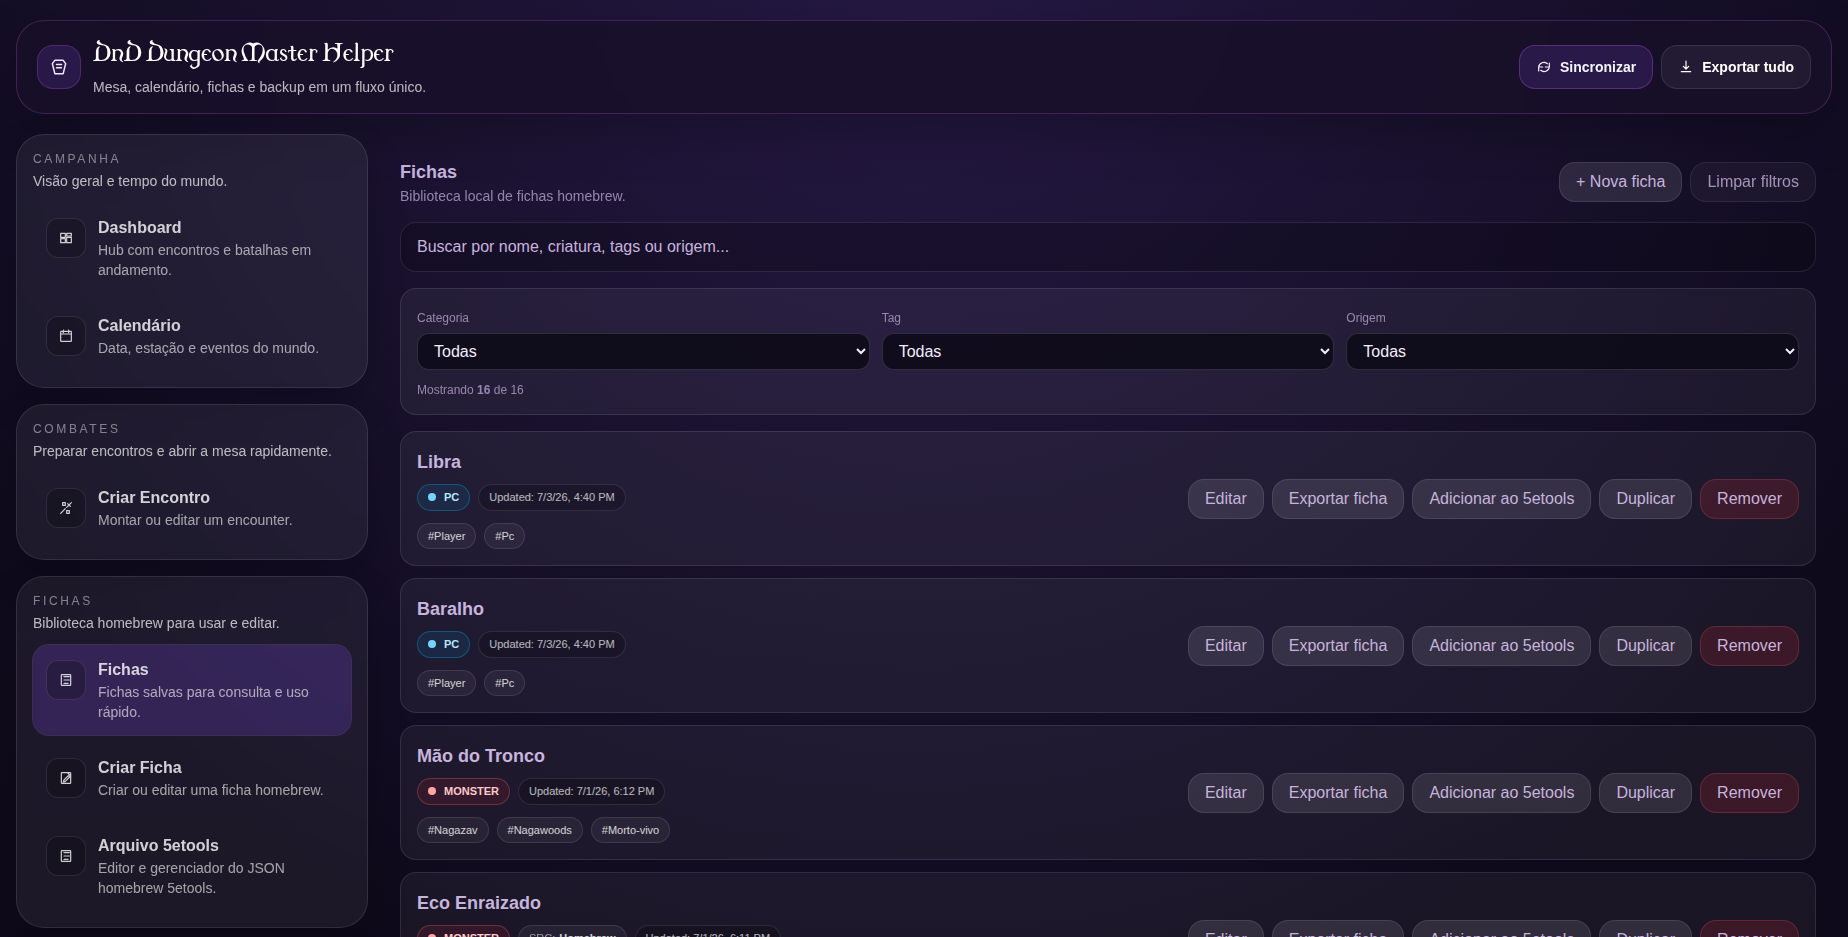
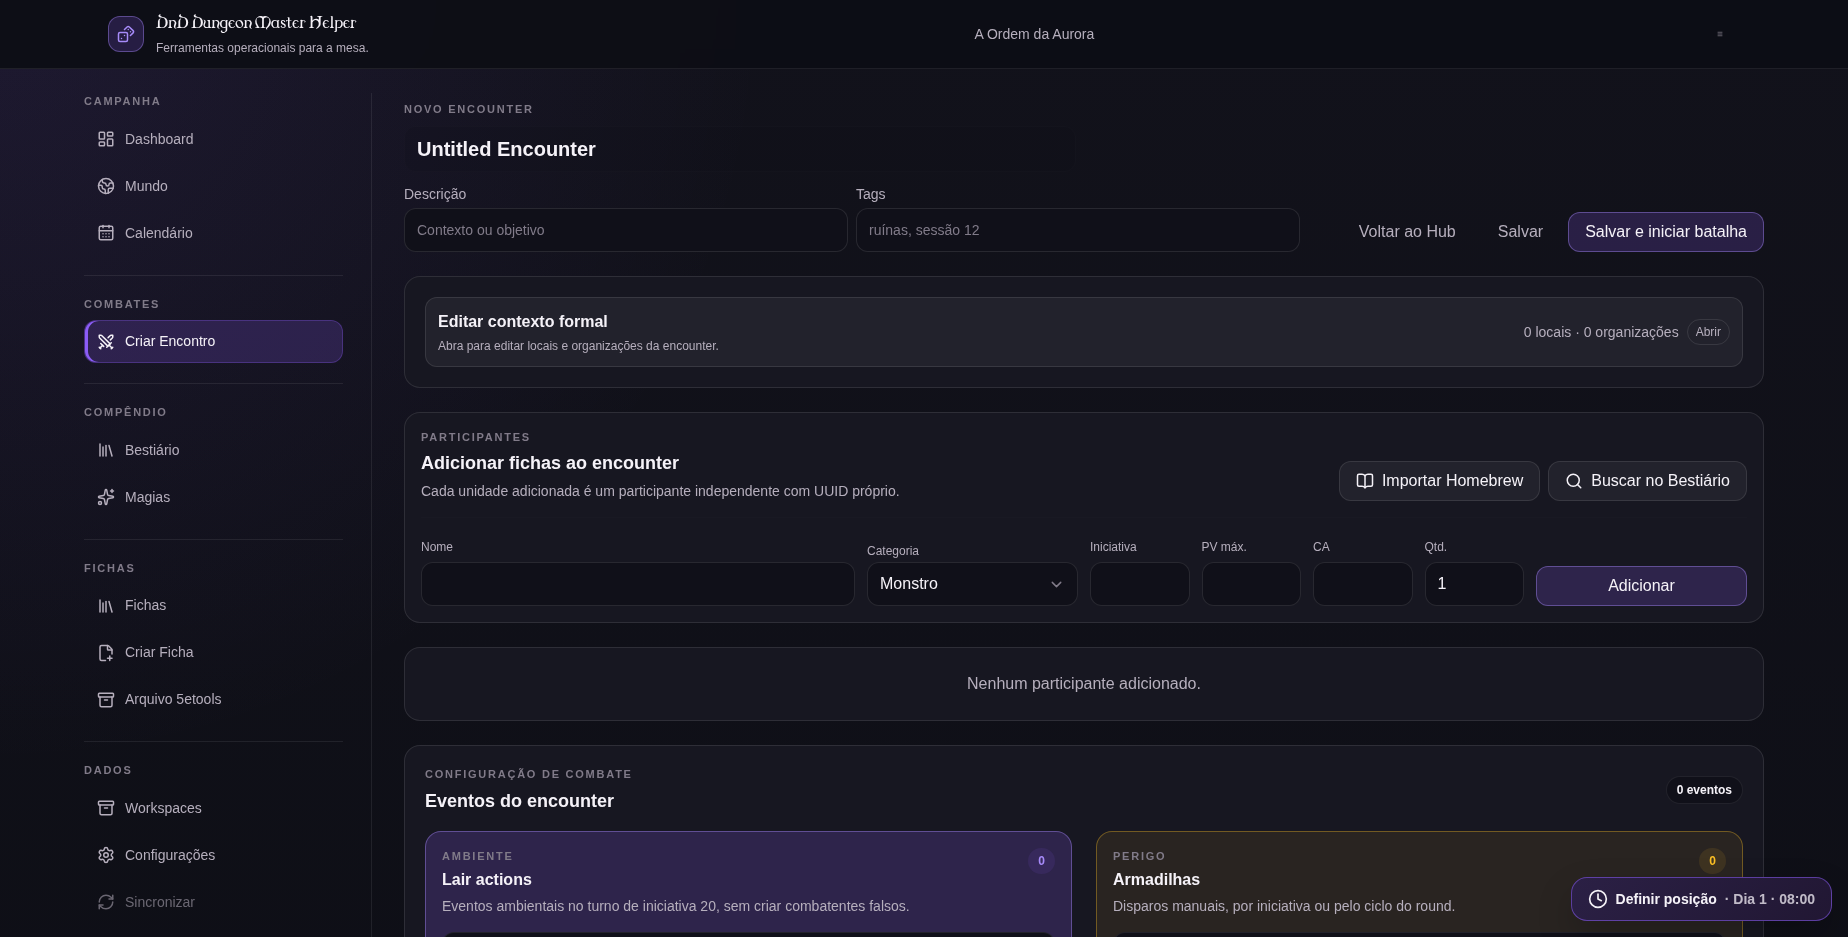
feat: add the new project

diff --git a/src/app/home/projects/projects-info.ts b/src/app/home/projects/projects-info.ts
@@ -4,11 +4,40 @@ interface Project {
 	bio: string;
 	tech: string;
 	imgSrc: string;
+	featured?: boolean;
 	repoLink?: string;
 	deployLink: string;
 }
 
 export const projects: Project[] = [
+	{
+		id: 6,
+		name: 'D&D Dungeon Master Helper',
+		bio: `Ferramenta para mestres de D&D com foco em uso local durante as sessões.
+
+- Encontros salvos e editáveis, Encounter Hub e Battle Tracker.
+- Fichas homebrew e calendário com world clock.
+- Backup completo em JSON e sincronização dos dados do projeto.
+- Persistência local com localStorage para manter o fluxo da mesa organizado.`,
+		deployLink: 'https://dnd-dm-helper.vercel.app',
+		imgSrc: '/images/projects/dnd-dm-helper.png',
+		featured: true,
+		tech: 'https://skillicons.dev/icons?i=angular,ts,tailwind',
+	},
+	{
+		id: 7,
+		name: 'D&D Player Helper',
+		bio: `Cockpit mobile-first e offline-first para jogadores de D&D 5e 2014.
+
+- Criação, progressão e gerenciamento de múltiplas fichas.
+- Jogar, Ficha, Habilidades, Magias e Inventário em uma experiência integrada.
+- Character Engine com suporte a multiclasse, recursos, descansos e histórico.
+- PWA instalável, compêndio local e persistência offline com IndexedDB.`,
+		deployLink: 'https://dnd-player-helper.vercel.app',
+		imgSrc: '/images/projects/dnd-player-helper.png',
+		featured: true,
+		tech: 'https://skillicons.dev/icons?i=angular,ts,tailwind,pwa',
+	},
 	{
 		id: 1,
 		name: 'Brasil API',
@@ -21,20 +50,6 @@ export const projects: Project[] = [
 		imgSrc: '/images/projects/brasil-API.png',
 		repoLink: 'https://github.com/Joao-Vtr-Oliveira/Brasil-API-Angular',
 		tech: 'https://skillicons.dev/icons?i=ts,angular,tailwind,jest',
-	},
-	{
-		id: 6,
-		name: 'D&D Dungeon Master Helper',
-		bio: `Ferramenta para mestres de D&D com foco em uso local durante as sessões.
-
-- Encontros salvos e editáveis, Encounter Hub e Battle Tracker.
-- Fichas homebrew e calendário com world clock.
-- Backup completo em JSON e sincronização dos dados do projeto.
-- Persistência local com localStorage para manter o fluxo da mesa organizado.`,
-		deployLink: 'https://dnd-dm-helper.vercel.app',
-		imgSrc: '/images/projects/dnd-dm-helper.png',
-		repoLink: 'https://github.com/Joao-Vtr-Oliveira/dnd-dm-helper',
-		tech: 'https://skillicons.dev/icons?i=angular,ts,tailwind',
 	},
 	{
 		id: 2,

diff --git a/src/app/home/projects/projects.css b/src/app/home/projects/projects.css
@@ -1,8 +1,98 @@
-.example-card {
-  max-width: 400px;
+.projects-intro {
+  max-width: 44rem;
+  margin: -1.5rem auto 2.5rem;
+  color: rgb(196 181 253 / 0.82);
+  text-align: center;
+  line-height: 1.6;
 }
 
 .customBtn {
-  
   height: 40px;
+}
+
+.project-card {
+  position: relative;
+  overflow: hidden;
+  border-color: rgb(139 92 246 / 0.2);
+  transition: border-color 180ms ease, box-shadow 180ms ease, transform 180ms ease;
+}
+
+.project-card:hover {
+  border-color: rgb(139 92 246 / 0.55);
+}
+
+.project-card-featured {
+  border: 1px solid rgb(167 139 250 / 0.72) !important;
+  background:
+    linear-gradient(145deg, rgb(76 29 149 / 0.18), transparent 48%),
+    rgb(31 25 48 / 0.98);
+  color: #f5f3ff;
+  box-shadow: 0 0 0 1px rgb(139 92 246 / 0.12), 0 22px 55px rgb(76 29 149 / 0.22);
+}
+
+:host-context(.dark) .project-card-featured {
+  background:
+    linear-gradient(145deg, rgb(76 29 149 / 0.32), transparent 48%),
+    rgb(31 25 48 / 0.98);
+}
+
+.project-card-featured mat-card-title {
+  color: #f5f3ff;
+}
+
+.project-card-featured mat-card-content pre {
+  color: #e5e7eb;
+}
+
+.project-card-featured:hover {
+  border-color: rgb(196 181 253 / 0.95) !important;
+  box-shadow: 0 0 0 1px rgb(167 139 250 / 0.2), 0 24px 65px rgb(109 40 217 / 0.32);
+}
+
+.project-card-image {
+  transition: transform 240ms ease, filter 240ms ease;
+}
+
+.project-card:hover .project-card-image {
+  transform: scale(1.025);
+  filter: saturate(1.08);
+}
+
+.featured-badge {
+  position: absolute;
+  z-index: 1;
+  top: 1rem;
+  left: 1rem;
+  display: inline-flex;
+  align-items: center;
+  gap: 0.35rem;
+  padding: 0.4rem 0.75rem;
+  border: 1px solid rgb(221 214 254 / 0.55);
+  border-radius: 999px;
+  background: rgb(46 16 101 / 0.88);
+  color: #ede9fe;
+  font-size: 0.75rem;
+  font-weight: 700;
+  letter-spacing: 0.02em;
+  box-shadow: 0 8px 20px rgb(46 16 101 / 0.28);
+  backdrop-filter: blur(8px);
+}
+
+.featured-badge mat-icon {
+  width: 1rem;
+  height: 1rem;
+  font-size: 1rem;
+}
+
+@media (max-width: 640px) {
+  .projects-intro {
+    margin-top: -1.5rem;
+    margin-bottom: 2rem;
+    font-size: 0.95rem;
+  }
+
+  .featured-badge {
+    top: 0.75rem;
+    left: 0.75rem;
+  }
 }

diff --git a/src/app/home/projects/projects.html b/src/app/home/projects/projects.html
@@ -6,19 +6,29 @@
 		>
 			Meus Projetos
 		</h2>
+		<p class="projects-intro">
+			Uma seleção de aplicações que representam minha evolução e meus desafios técnicos mais relevantes.
+		</p>
 
 		<div class="grid grid-cols-1 sm:grid-cols-2 lg:grid-cols-3 gap-8">
 			@for (project of projects(); track project.id) {
 
 			<mat-card
 				appearance="outlined"
-				class="w-full max-w-sm min-h-[600px] flex flex-col justify-between rounded-2xl shadow-lg hover:shadow-2xl transition-transform hover:scale-[1.01] bg-white dark:bg-gray-800"
+				class="project-card w-full min-h-[600px] flex flex-col justify-between rounded-2xl shadow-lg hover:shadow-2xl transition-transform hover:scale-[1.01] bg-white dark:bg-gray-800"
+				[class.project-card-featured]="project.featured"
 			>
+				@if (project.featured) {
+				<div class="featured-badge">
+					<mat-icon>auto_awesome</mat-icon>
+					Projeto em destaque
+				</div>
+				}
 				<img
 					mat-card-image
 					[src]="project.imgSrc"
 					[alt]="project.name + ' imagem'"
-					class="aspect-video object-cover w-full"
+					class="project-card-image aspect-video object-cover w-full"
 				/>
 
 				<mat-card-header>

diff --git a/src/app/home/projects/projects.spec.ts b/src/app/home/projects/projects.spec.ts
@@ -44,4 +44,26 @@ describe('Projects', () => {
 			expect(name!.textContent).toContain(item!.name);
 		});
 	});
+
+	it('should highlight the two D&D projects', () => {
+		const featuredCards = fixture.nativeElement.querySelectorAll(
+			'.project-card-featured'
+		);
+
+		expect(featuredCards.length).toBe(2);
+		expect(fixture.nativeElement.textContent).toContain('Projeto em destaque');
+	});
+
+	it('should not expose private repository links for the D&D projects', () => {
+		const cards: HTMLElement[] = Array.from(
+			fixture.nativeElement.querySelectorAll('mat-card'),
+		);
+
+		for (const projectName of ['D&D Dungeon Master Helper', 'D&D Player Helper']) {
+			const card = cards.find((item) => item.textContent?.includes(projectName));
+
+			expect(card).toBeTruthy();
+			expect(card?.querySelector('a[href*="github.com"]')).toBeNull();
+		}
+	});
 });
